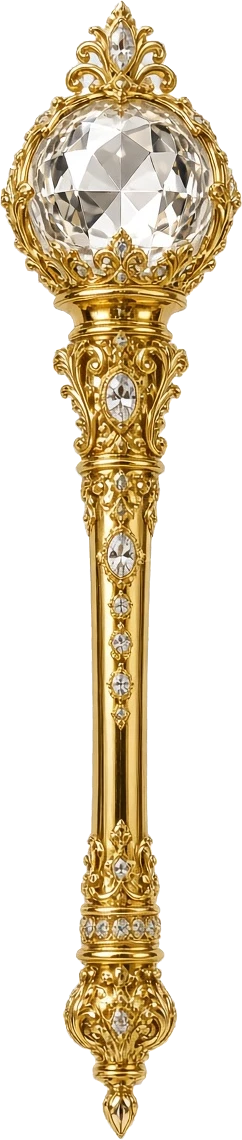
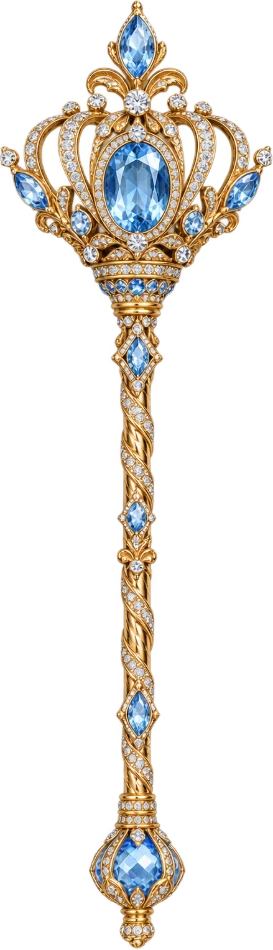
Six props with real alpha
A sceptre, a Mis Quince sash, a lace fan, an XV monogram and two
photo-booth signs. The sceptre and sash replace the versions that had
to be flood-filled out of JPEGs; these came with a genuine alpha
channel, so they only needed trimming.

All are downscaled to 950px on the long side, which is as large as a
prop can ever render, and stored as lossy WebP with the alpha intact.

The sceptre and the fan get no face anchor: both are held in a hand,
and the booth does not detect hands. The signs sit beside the head.

diff --git a/sw.js b/sw.js
@@ -1,6 +1,6 @@
 /* Cache-first service worker: once the booth has loaded, the venue Wi-Fi can
    die and the app keeps working. Bump CACHE when you change any asset. */
-var CACHE = 'quince-booth-v11';
+var CACHE = 'quince-booth-v12';
 var ASSETS = [
   './', './index.html', './booth.js', './share.js', './faces.js', './gif.js', './qrcode.js', './manifest.webmanifest',
   './icon-180.png', './icon-192.png', './icon-512.png', './icon-1024.png',
@@ -9,8 +9,11 @@ var ASSETS = [
   './props/manifest.json',
   './props/crown-gold-rose.webp', './props/crown-gold-fuchsia.webp',
   './props/tiara-silver-wide.webp', './props/tiara-silver-arch.webp',
-  './props/sash15.webp', './props/sceptre.webp', './props/num15.webp',
-  './props/mask.png', './props/mustache.png', './props/lips.png',
+  './props/sash-quince.webp', './props/sceptre.webp',
+  './props/fan.webp', './props/mask.png',
+  './props/mustache.png', './props/lips.png',
+  './props/xv.webp', './props/princesa.webp',
+  './props/finally15.webp', './props/num15.webp',
   './props/bubble.png'
 ];
 
